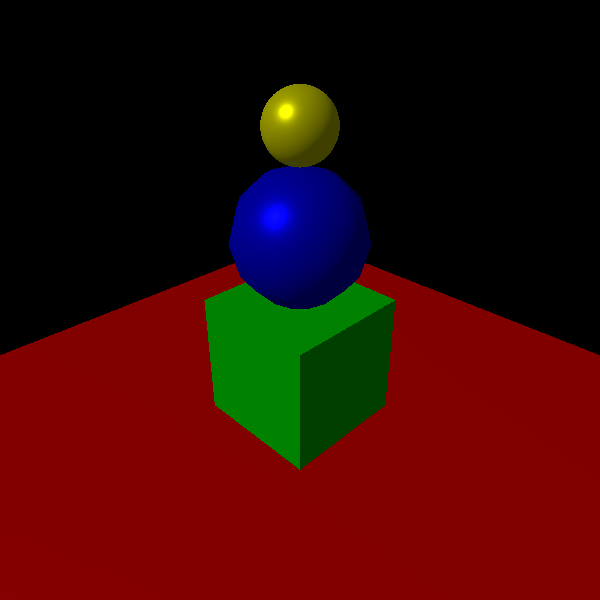
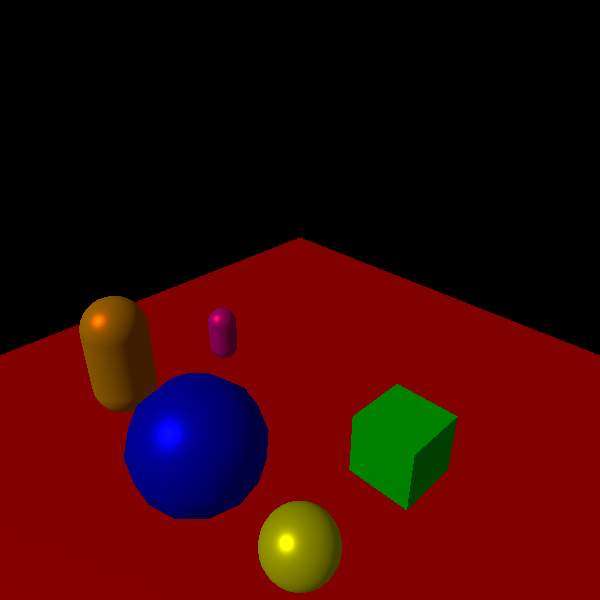
tests: Update primitives test

Changed region(s): [[0.12, 0.12, 0.78, 0.87], [0.42, 0.81, 0.57, 0.99]]

diff --git a/guest/rust/examples/basics/primitives/src/server.rs b/guest/rust/examples/basics/primitives/src/server.rs
@@ -2,11 +2,16 @@ use ambient_api::{
     components::core::{
         app::main_scene,
         camera::aspect_ratio_from_window,
-        primitives::{cube, quad, sphere_radius, sphere_sectors, sphere_stacks},
+        primitives::{
+            capsule_half_height, capsule_latitudes, capsule_longitudes, capsule_radius,
+            capsule_rings, cube, quad, sphere_radius, sphere_sectors, sphere_stacks,
+        },
         rendering::color,
         transform::{lookat_target, scale, translation},
     },
-    concepts::{make_perspective_infinite_reverse_camera, make_sphere, make_transformable},
+    concepts::{
+        make_capsule, make_perspective_infinite_reverse_camera, make_sphere, make_transformable,
+    },
     prelude::*,
 };
 
@@ -30,23 +35,44 @@ pub fn main() {
     Entity::new()
         .with_merge(make_transformable())
         .with_default(cube())
-        .with(translation(), vec3(0., 0., 1.))
-        .with(scale(), Vec3::ONE * 2.)
+        .with(translation(), vec3(2., 0., 0.5))
+        .with(scale(), Vec3::ONE)
         .with(color(), vec4(0., 1., 0., 1.))
         .spawn();
 
     Entity::new()
+        .with_merge(make_transformable())
         .with_merge(make_sphere())
         .with(sphere_radius(), 1.)
         .with(sphere_sectors(), 12)
         .with(sphere_stacks(), 6)
-        .with(translation(), vec3(0., 0., 3.))
+        .with(translation(), vec3(0., 2., 0.5))
         .with(color(), vec4(0., 0., 1., 1.))
         .spawn();
 
     Entity::new()
+        .with_merge(make_transformable())
         .with_merge(make_sphere())
-        .with(translation(), vec3(0., 0., 4.5))
+        .with(translation(), vec3(2., 2., 0.25))
         .with(color(), vec4(1., 1., 0., 1.))
+        .spawn();
+
+    Entity::new()
+        .with_merge(make_transformable())
+        .with_merge(make_capsule())
+        .with(translation(), vec3(-2.0, 2.0, 1.0))
+        .with(color(), vec4(1.0, 0.25, 0.0, 1.0))
+        .spawn();
+
+    Entity::new()
+        .with_merge(make_transformable())
+        .with_merge(make_capsule())
+        .with(capsule_radius(), 0.25)
+        .with(capsule_half_height(), 0.25)
+        .with(capsule_rings(), 0)
+        .with(capsule_latitudes(), 16)
+        .with(capsule_longitudes(), 32)
+        .with(translation(), vec3(-2.0, 0.0, 0.5))
+        .with(color(), vec4(1.0, 0.0, 0.25, 1.0))
         .spawn();
 }
